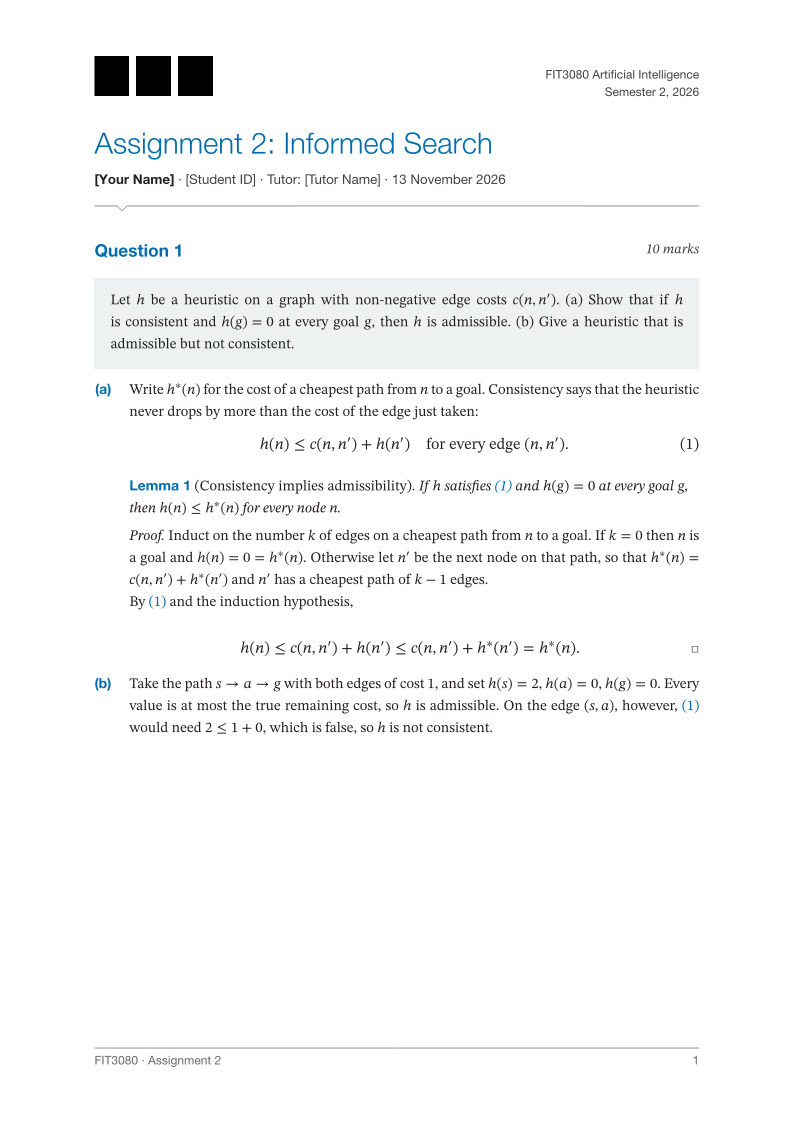
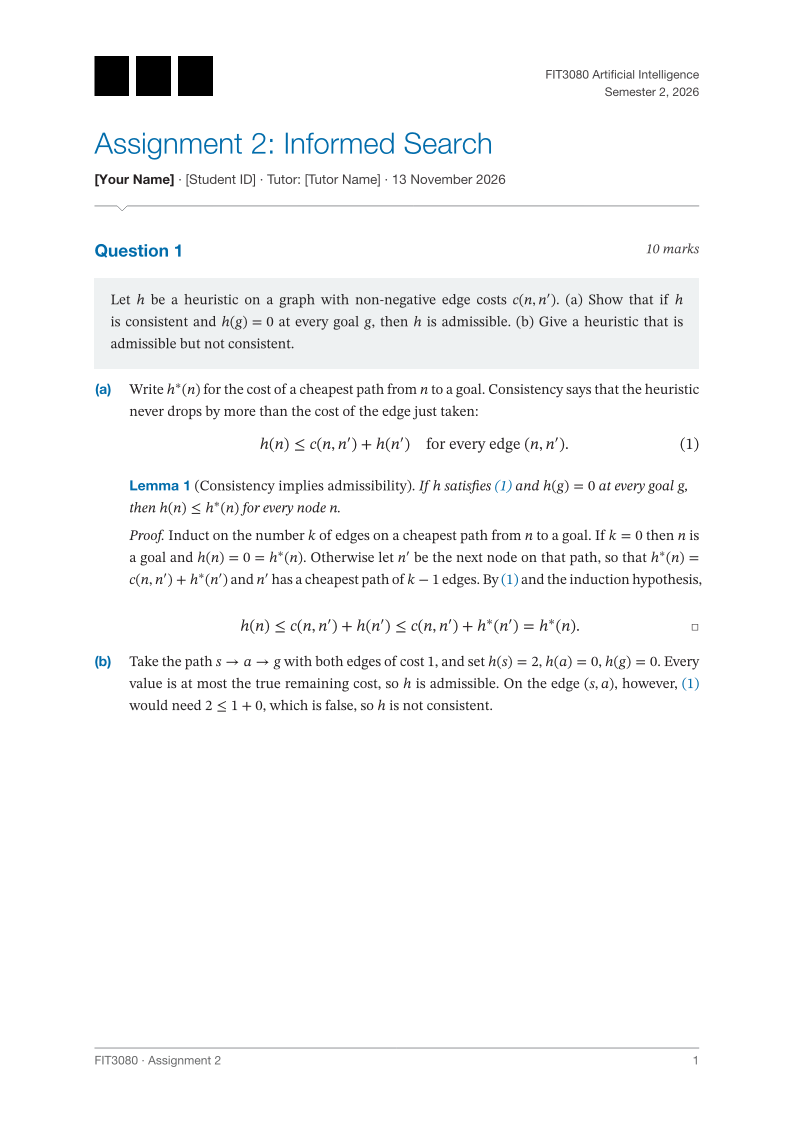
fix: let the assignment proof paragraph flow naturally

Changed region(s): [[0.1209, 0.4987, 0.8766, 0.6545]]

diff --git a/docs/VALIDATION.md b/docs/VALIDATION.md
@@ -12,8 +12,8 @@ scripts/check.sh --ignore-system-fonts
 scripts/check.sh --thumbnail
 ```
 
-The first two logs are `build/check-system-fonts.log` and
-`build/check-embedded-fonts.log`. Each run reports 116 successful checks,
+The first two logs are `build/review-1-check-system-fonts.log` and
+`build/review-1-check-embedded-fonts.log`. Each run reports 117 successful checks,
 including expected invalid-argument failures. The thumbnail run also renders
 both complete examples to PNG at 96 PPI in `build/preview/`, copies the three
 README previews to `docs/preview/`, and renders the starter at 100 PPI for
@@ -49,7 +49,7 @@ TYPST_PACKAGE_PATH="$PWD/build/packages" typst compile --root . --ignore-system-
 | 4. No Monash marks or personal details | PASS | All committed image assets were inspected. The only supplied logo-slot asset is three plain rectangles. Examples and tests use bracketed names/IDs; bibliography data is explicitly fictional. No official mark was downloaded. The original spec's sample ID remains in the untouched specification, not in a document's personal-data fields. |
 | 5. Notch only in the two prescribed places | PASS | Exactly two call sites: `src/titleblock.typ` and `src/cover.typ`; geometry is defined in `src/design.typ`. |
 | 6. README requirements and compiling samples | PASS | Notice, three previews, logo instructions, both quick starts, complete argument tables, components, fonts and design notes. All nine Typst code samples compile in both modes. |
-| 7. Source file limits and entrypoint | PASS | Every `src/*.typ` is below 300 lines. `lib.typ` contains only explicit imports/re-exports. `tests/api.typ` asserts exactly 19 public names and their types. |
+| 7. Source file limits and entrypoint | PASS | Every file under `src/` is below 300 lines (largest: 207). The script also enforces at most 100 characters per line in `lib.typ`, `src/`, `tests/`, `examples/`, and `template/`. `lib.typ` contains only explicit imports/re-exports. `tests/api.typ` asserts exactly 20 public names and their types, including the four-stack `monash-fonts` dictionary. |
 | 8. Local Universe submission requirements | PASS | Manifest assertions, MIT license, named/versioned import, isolated fresh init, portable starter compile, PNG thumbnail from the initialized starter, longer edge 1169 px, under 3 MiB. Package bundle is in `build/unofficial-monash-report-0.1.0.tar.gz`. No remote submission or reviewer acceptance is claimed. |
 
 ## Precedence decisions and limitations
@@ -60,9 +60,12 @@ TYPST_PACKAGE_PATH="$PWD/build/packages" typst compile --root . --ignore-system-
 - Typst warns about missing names anywhere in a fallback list and has no
   in-document font-enumeration API. The specified preference lists remain
   in `src/design.typ`. The check script supplies its real font inventory;
-  ordinary compilation without that inventory uses embedded fonts. This is
-  a deliberate portability adjustment, documented in the README. Explicit
-  font overrides remain unchanged and can produce Typst warnings if missing.
+  ordinary compilation without that inventory uses embedded fonts. The
+  exported `monash-fonts` dictionary explicitly opts into all four complete
+  preference lists with `report.with(..monash-fonts, title: [...])`. The README
+  leads with this option and plainly states that Typst warns about any listed
+  family that is not installed. The starter includes a commented opt-in line.
+  Explicit font arguments are never filtered against the inventory.
 - Section 4 takes precedence over CSS where sizes differ: for example,
   assignment title 22pt, body 11pt and footnote 9.5pt. Font-dependent line
   wrapping differs from the HTML renderer; previews are not bitmap-identical.
@@ -79,3 +82,33 @@ TYPST_PACKAGE_PATH="$PWD/build/packages" typst compile --root . --ignore-system-
   unpublished fork named in the specification.
 - Work is committed locally in conventional commits. No push, remote
   repository creation, pull request, tag or Universe publication was made.
+
+## Review round 1 checks
+
+All three commands above passed again with Typst 0.15.1. The thumbnail log is
+`build/review-1-check-thumbnail.log`. Normal and embedded-only runs each
+report 117 successes; the thumbnail run adds three successful PNG renders.
+
+The line-limit checker counts UTF-8 characters, and the source-file checker
+rejects 300 lines or more. Both run before document compilation. A temporary
+102-character test line and a temporary 300-line source file each made
+`scripts/check.sh` fail with the expected diagnostic; both probes were removed.
+Probe command: `bash build/review-1-check-limits.sh`. Its diagnostic logs are
+`build/review-1-line-limit.log` and `build/review-1-file-limit.log`.
+
+Two direct font probes also passed:
+
+```sh
+TYPST_PACKAGE_PATH="$PWD/build/packages" typst compile --root . --ignore-system-fonts build/review-1-font-opt-in.typ build/review-1-font-opt-in.pdf
+TYPST_PACKAGE_PATH="$PWD/build/packages" typst compile --root . build/review-1-font-auto.typ build/review-1-font-auto.pdf
+```
+
+The opt-in probe spreads `monash-fonts` into `report.with`, verifies the body
+stack, and deliberately produces missing-family warnings with embedded fonts
+only. The `auto` probe supplies no inventory, verifies Libertinus Serif, and
+emits no diagnostics. These probes are separate from the warning-free checks.
+
+The report cover/body previews and starter thumbnail are byte-for-byte
+unchanged after reformatting. The assignment preview was refreshed after
+removing the requested forced proof line break. The author metadata now reads
+`["EY2234 <@Eryc123Y>"]`. All work remains local on the original branch.

diff --git a/CHANGELOG.md b/CHANGELOG.md
@@ -8,3 +8,14 @@
 - Chapter-scoped figure, table, listing, equation and theorem numbering.
 - Portable font selection, custom accent and optional user-supplied logo content.
 - Local checks in both font modes, README sample compilation and CI.
+
+### Review round 1
+
+- Reformat source and fixtures to at most 100 characters per line; enforce
+  that limit and fewer than 300 lines per source file in the check script.
+- Build the syntax theme from a readable multi-line XML definition.
+- Export `monash-fonts` for explicit use of all four preferred font stacks;
+  document missing-font warnings and retain the existing `auto` defaults.
+- Match the slides package's author metadata.
+- Let the assignment proof paragraph flow without a forced line break.
+- Refresh previews and verify all three check commands with Typst 0.15.1.
